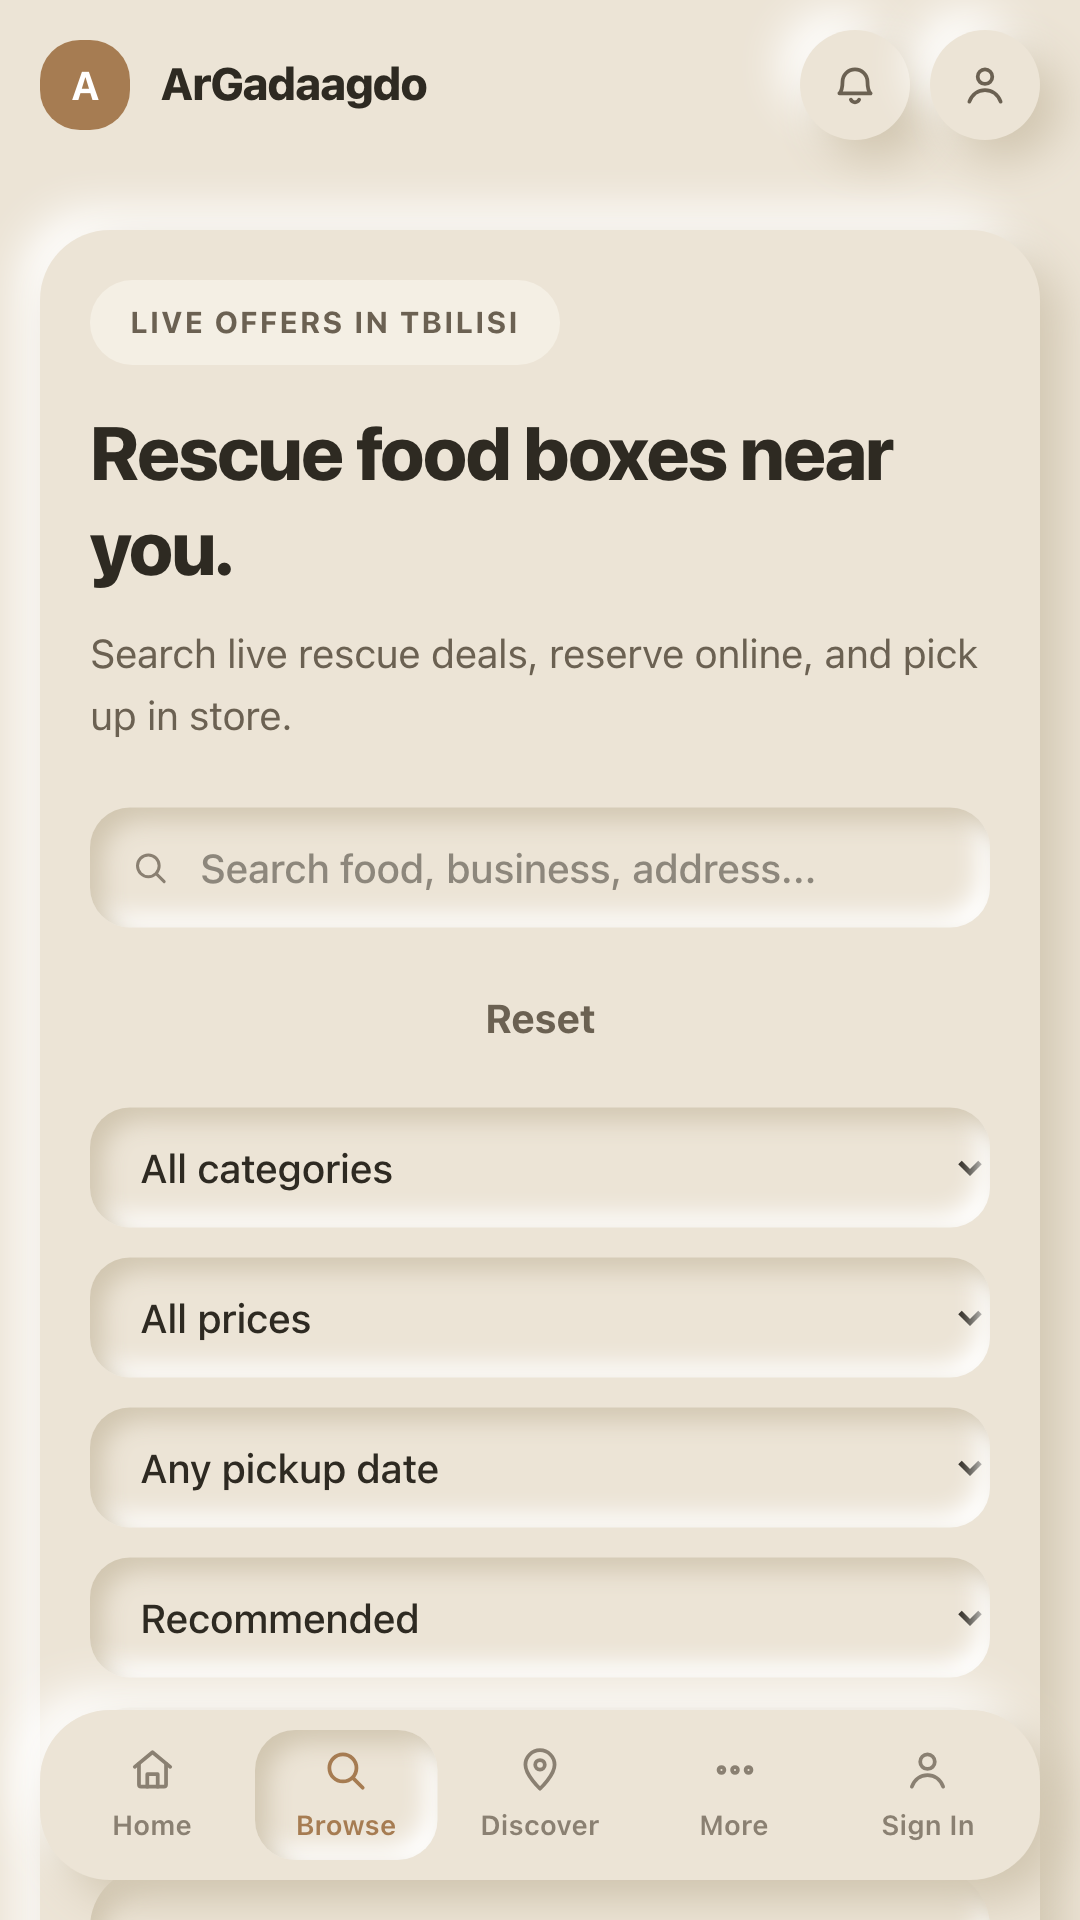
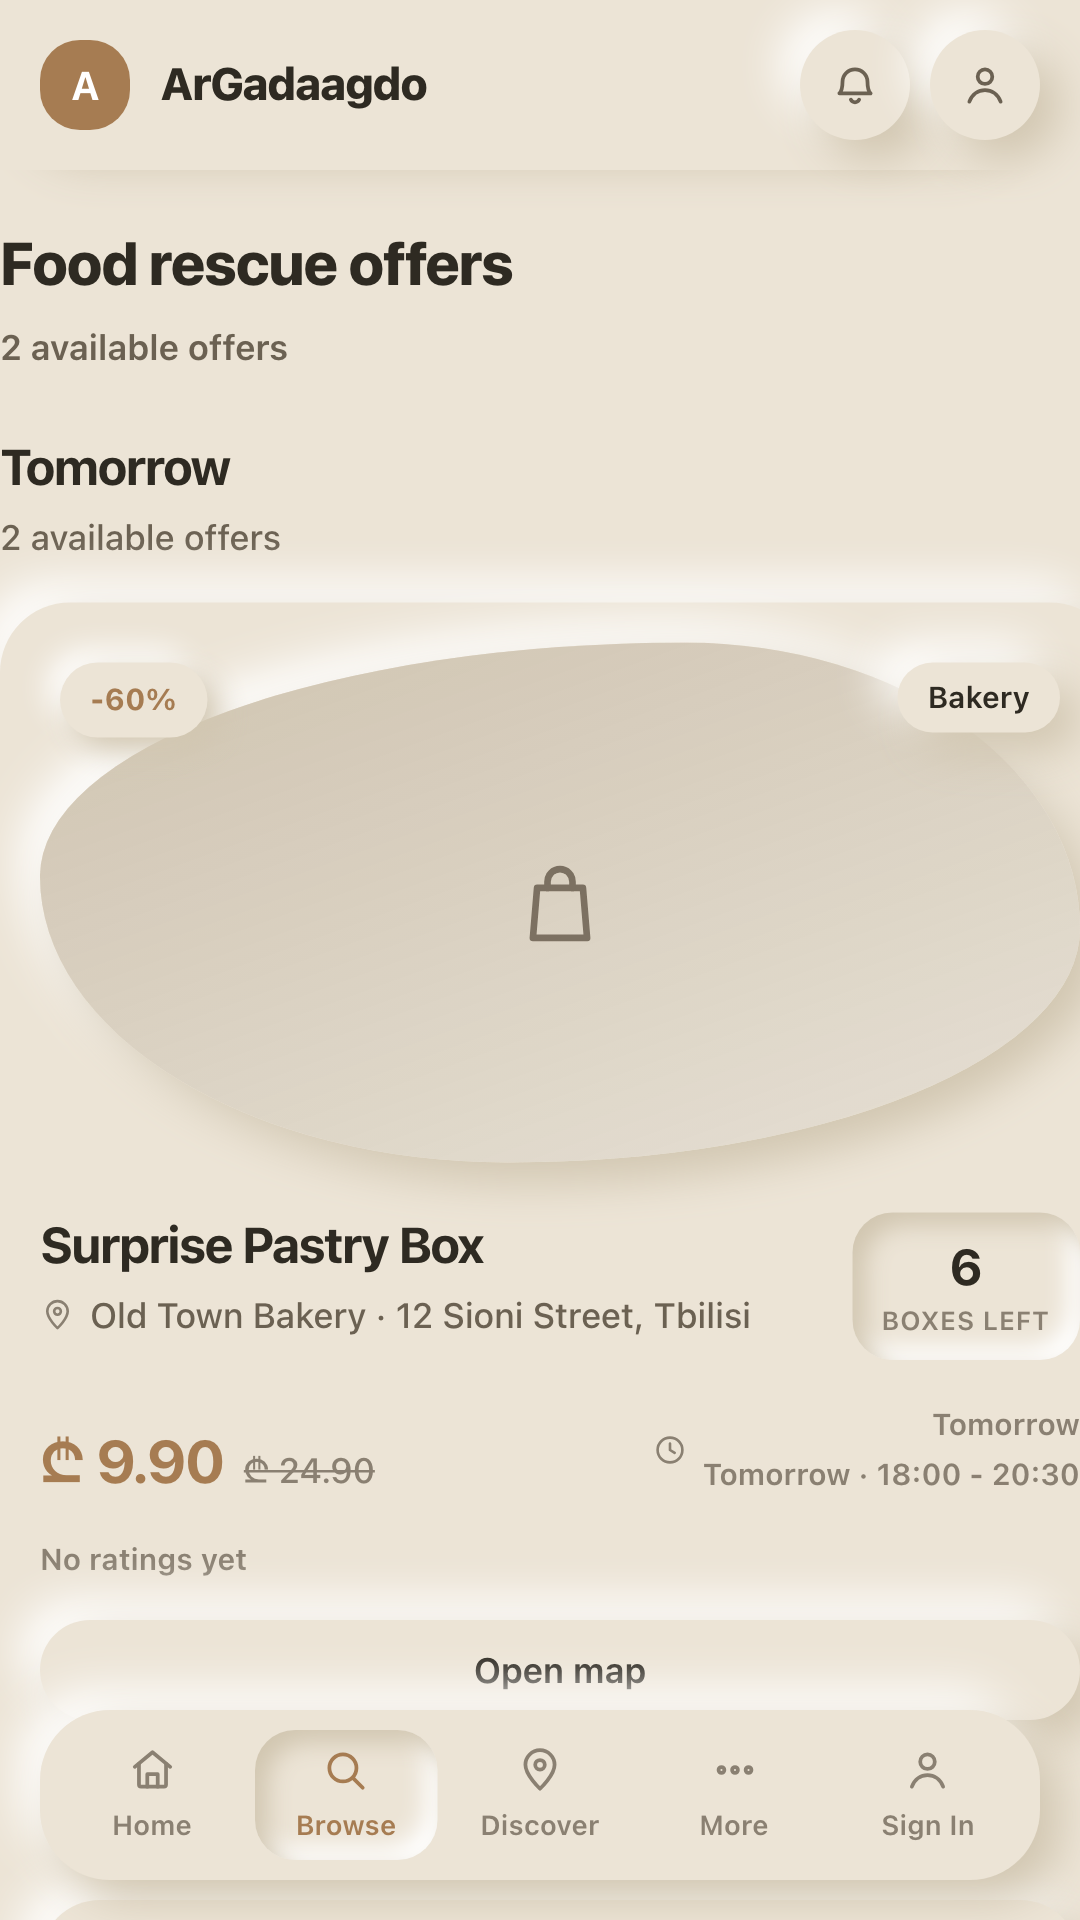
Seed temporary test data to complete real checkout/browsing screenshots
At the user's explicit request: created one TEST customer account and two
TEST demo offers (fictional business names, not real ones) directly in the
production Supabase project, specifically to capture real offer-browsing,
offer-detail, and checkout screenshots for the app store listing. This is
the only data of any kind in the database right now — every public table
was completely empty (0 rows) before this. Clearly documented as temporary
in both docs/app-store-submission.md and PROJECT_CONTEXT.md, with exact
row ids, what was created and how, and a cleanup SQL snippet to remove it
before real pilot businesses onboard.

No payment/BOG code was exercised — the test account only ever reaches
checkout's pre-payment summary screen, never submits payment.

scripts/capture-store-screenshots.mjs: signs in via the real /login form
(not a fabricated session) and navigates straight to the known seeded
offer id for the detail/checkout shots, since the offers list page
navigates via a <button onClick={() => router.push(...)}>, not a real
<a href> — the earlier href-scraping approach silently found nothing even
though the cards render fine, which is also why 02-offers.png previously
looked empty: the real content was there, just below the first viewport
without a scroll. Fixed both. The test account's password is deliberately
NOT committed anywhere in this repo (shared with the user directly instead)
— the script now requires it via an ARGADAAGDO_TEST_PASSWORD env var and
[…]

diff --git a/docs/app-store-submission.md b/docs/app-store-submission.md
@@ -142,7 +142,37 @@ Recommend: get a native speaker to review/trim these to the store limits
 before submitting a Georgian listing. Not required for v1 — English-only is
 fine to launch with, especially since App Review itself is in English.
 
-## 5. Screenshots — generated, with one real gap found
+## 5. Screenshots — full set captured, using seeded test data
+
+**Update 2026-09-24 (same day, follow-up pass):** the gaps noted below (no
+live offers, checkout unreachable) are now closed. Seeded one TEST customer
+account and two TEST demo listings directly in the production Supabase
+project specifically so the real offer-browsing, offer-detail, and checkout
+screens could be photographed. **This is temporary, clearly-fake data, not
+real users or businesses** — full detail, exact IDs, credentials, and a
+cleanup snippet are in the **"Test data — temporary, for store screenshots
+only"** section below and in `PROJECT_CONTEXT.md`. Delete it before (or
+soon after) real pilot businesses start onboarding, using the cleanup SQL
+provided.
+
+All 4 screens are now captured across all 3 device profiles:
+
+| # | Screen | Status |
+|---|---|---|
+| 01 | Home | ✅ |
+| 02 | Offers (browse) | ✅ — real card, signed out |
+| 03 | Offer detail | ✅ — real offer, signed out |
+| 04 | Checkout | ✅ — real signed-in session, pre-payment summary screen only |
+
+One minor, pre-existing, unrelated observation surfaced while looking at
+`02-offers.png` at the 428px-wide iOS viewport: the offer card's top-right
+meta row ("Tomorrow" label + "N BOXES LEFT" chip) appears to run slightly
+past the card's right edge at that exact width. Didn't investigate or fix
+this — it's a general layout question, not something introduced by or
+in scope for this session, but worth a look next time someone's doing UI/QA
+work.
+
+### Screenshots section (original, pre-test-data findings — kept for history)
 
 `scripts/capture-store-screenshots.mjs` (Playwright, installed as a dev
 dependency) captures the live production site at exact store-required
@@ -187,6 +217,67 @@ Output: `store-assets/screenshots/{ios-6.5in-1284x2778,ios-6.9in-1290x2796,andro
    the literal checkout UI photographed, give me a test customer account's
    credentials and I'll recapture it — the script already suppresses the
    "Install ArGadaagdo" PWA prompt that would otherwise cover the content.
+
+### Test data — temporary, for store screenshots only
+
+**Added 2026-09-24, same-day follow-up, at the user's explicit request**
+("create a test customer account and a couple of realistic-looking demo
+offers... to capture proper checkout and browsing screenshots... note it
+clearly in PROJECT_CONTEXT.md"). This is the only data of any kind
+currently in the production database — every `public` table was completely
+empty (0 rows) before this. **No real user, business, or offer data exists
+yet; nothing real was touched or put at risk.**
+
+No payment/BOG code was exercised to do this — the test account only ever
+reaches checkout's pre-payment summary screen, never clicks pay. Created
+via Supabase's real signup API (so the `on_auth_user_created` trigger fired
+normally and built the `profiles` row exactly as it would for a real
+signup) and direct SQL inserts for the business/offer rows (via the
+Supabase MCP tools, which run with elevated privileges that bypass RLS —
+appropriate here as this is seed data, not something going through the
+app's normal customer-facing write paths).
+
+**Test customer** (`auth.users` / `public.profiles`):
+- id: `fc1494b5-3606-4db9-bd06-3c0f22937d58`
+- email: `test.customer.storeshots@example.com`
+- password: **not stored in this repo** — it was shared with the user
+  directly in the session that created it, not committed here (a plaintext
+  password in git history, even for a scoped test account, is bad
+  practice). If it's needed again and lost, reset it via Supabase Dashboard
+  → Authentication → Users → find this email → send/set a new password.
+- Email came back pre-confirmed on signup — this project has email
+  confirmation disabled at the Supabase Auth level (worth knowing
+  independent of this task: any real signup today is instantly usable
+  without clicking a confirmation link).
+
+**Test businesses** (`public.businesses`, both `approved = true`,
+`owner_id = null` — no dashboard access needed for screenshots, so no
+second fake account was created):
+- id `2`, "Old Town Bakery" (Bakery, 12 Sioni Street, Tbilisi)
+- id `3`, "Vake Corner Cafe" (Cafe, 45 Chavchavadze Ave, Tbilisi)
+
+Both are fictional placeholder names — not real Tbilisi businesses, chosen
+specifically to avoid implying any real establishment's involvement.
+
+**Test offers** (`public.offers`, both `active = true`, `status = 'active'`,
+`pickup_date = '2026-09-25'` — adjust or re-run the seed if this data
+outlives that date and the offers expire):
+- id `4`, "Surprise Pastry Box" — ₾9.90 (was ₾24.90), business `2`
+- id `5`, "Surprise Lunch Bag" — ₾7.50 (was ₾18.00), business `3`
+
+**To remove all of it later** (recommended before real pilot businesses
+onboard, so it's never confused with real data):
+
+```sql
+delete from public.offers where id in (4, 5);
+delete from public.businesses where id in (2, 3);
+delete from public.profiles where id = 'fc1494b5-3606-4db9-bd06-3c0f22937d58';
+```
+
+Then delete the auth user itself via the Supabase Dashboard
+(Authentication → Users → search `test.customer.storeshots@example.com` →
+Delete user) rather than raw SQL against `auth.users` — the dashboard
+action is the officially supported way to remove an auth user cleanly.
 
 ## 6. Privacy & permissions audit
 
@@ -282,12 +373,17 @@ This is a reference for later, not something to execute now.
 
 Roughly **half a day to a day of hands-on work per platform**, not
 counting store review wait times — most of what's normally the slow part
-(icons, splash, listing copy, permissions review, scaffolding verification)
-is already done in this branch. What's left is genuinely account-gated:
-signing certs/keys, the TestFlight/Internal Testing round-trip, and the
-actual submit action, plus ideally re-capturing the offers/detail/checkout
-screenshots once real listings and a test login exist. The one thing that'd
-meaningfully shrink or reshuffle this estimate is if `argadaagdo.ge` goes
-live before submission — that forces a `capacitor.config.ts` change and a
-full rebuild before either store upload, so if the domain purchase is close,
-it's worth sequencing that before, not after, first submission.
+(icons, splash, listing copy, permissions review, scaffolding verification,
+and now a complete real screenshot set with actual browsing/detail/checkout
+screens) is already done in this branch. What's left is genuinely
+account-gated: signing certs/keys, the TestFlight/Internal Testing
+round-trip, and the actual submit action. Worth doing before final
+submission: swap the seeded TEST offers (see "Test data" above) for real
+pilot-business listings and re-run the screenshot script against those, so
+the store listing shows real Tbilisi businesses rather than placeholder
+ones — and delete the test data at that point per the cleanup snippet. The
+one thing that'd meaningfully shrink or reshuffle this estimate is if
+`argadaagdo.ge` goes live before submission — that forces a
+`capacitor.config.ts` change and a full rebuild before either store upload,
+so if the domain purchase is close, it's worth sequencing that before, not
+after, first submission.

diff --git a/PROJECT_CONTEXT.md b/PROJECT_CONTEXT.md
@@ -306,16 +306,54 @@ Headline findings for a future session to know without re-checking:
   the real logo. Regenerate via `npx capacitor-assets generate
   --iconBackgroundColor '#5c7a5c' --splashBackgroundColor '#ece4d6'` if the
   logo ever changes; source files are in `assets/`.
-- **Production currently has zero live offers.** This blocked getting real
-  "browse offers" / "offer detail" App Store screenshots — the ones
-  captured (`store-assets/screenshots/`) show an empty result list for
-  those. Re-run `node scripts/capture-store-screenshots.mjs` once a pilot
-  business has an active listing.
-- `/checkout/[id]` and `/business/register` both hard-redirect signed-out
-  visitors to `/login` — neither can be screenshotted without a real
-  logged-in session, which this session didn't create (would mean touching
-  auth / creating test-account state, both out of scope for a
-  no-clarification pass).
 - Permissions audit came back clean: Android requests only `INTERNET`, iOS
   has no usage-description keys, no camera/location/push code exists
   anywhere in the app. Nothing to justify to App Review.
+
+## ⚠ TEMPORARY TEST DATA in the production database (added 2026-09-24)
+
+**The production Supabase project currently contains fake seed data,
+created at the user's explicit request so real browsing/checkout
+screenshots could be captured for the app store listing (see
+`docs/app-store-submission.md`, "Test data" under section 5). This is
+temporary and should be deleted before real pilot businesses onboard, so
+it never gets confused with real data.**
+
+Before this, every `public` table (`profiles`, `businesses`, `offers`,
+`orders`, `favorites`, `payments`, `business_ratings`) had **zero rows** —
+this was a completely empty production database. The rows below are the
+only data of any kind in it right now:
+
+- **Test customer**: `auth.users`/`public.profiles` id
+  `fc1494b5-3606-4db9-bd06-3c0f22937d58`, email
+  `test.customer.storeshots@example.com`. Password deliberately **not**
+  recorded in this repo (shared with the user directly instead — a
+  plaintext password in git history is bad practice even for a scoped test
+  account); reset via Supabase Dashboard → Authentication → Users if it's
+  needed again and lost. Created via the real signup API (not a raw SQL
+  insert), so it's a normal, fully-functional account — just not a real
+  person. Came back pre-confirmed on signup: **this
+  project has email confirmation disabled at the Supabase Auth level**,
+  independent of this test-data note — worth knowing generally, since it
+  means any real signup today is instantly usable with no confirmation
+  email step.
+- **Test businesses** (`public.businesses`, both fictional, `approved =
+  true`): id `2` "Old Town Bakery", id `3` "Vake Corner Cafe".
+- **Test offers** (`public.offers`, both `active`): id `4` "Surprise Pastry
+  Box" (business `2`), id `5` "Surprise Lunch Bag" (business `3`), pickup
+  date `2026-09-25` — will show as expired after that date unless re-seeded.
+
+No payment/BOG code was exercised to create or use any of this — the test
+account only ever views checkout's pre-payment summary screen.
+
+**To remove it** (do this before real businesses start onboarding):
+
+```sql
+delete from public.offers where id in (4, 5);
+delete from public.businesses where id in (2, 3);
+delete from public.profiles where id = 'fc1494b5-3606-4db9-bd06-3c0f22937d58';
+```
+
+Then delete the auth user via Supabase Dashboard → Authentication → Users
+→ search `test.customer.storeshots@example.com` → Delete user (cleaner
+than raw SQL against `auth.users`).
